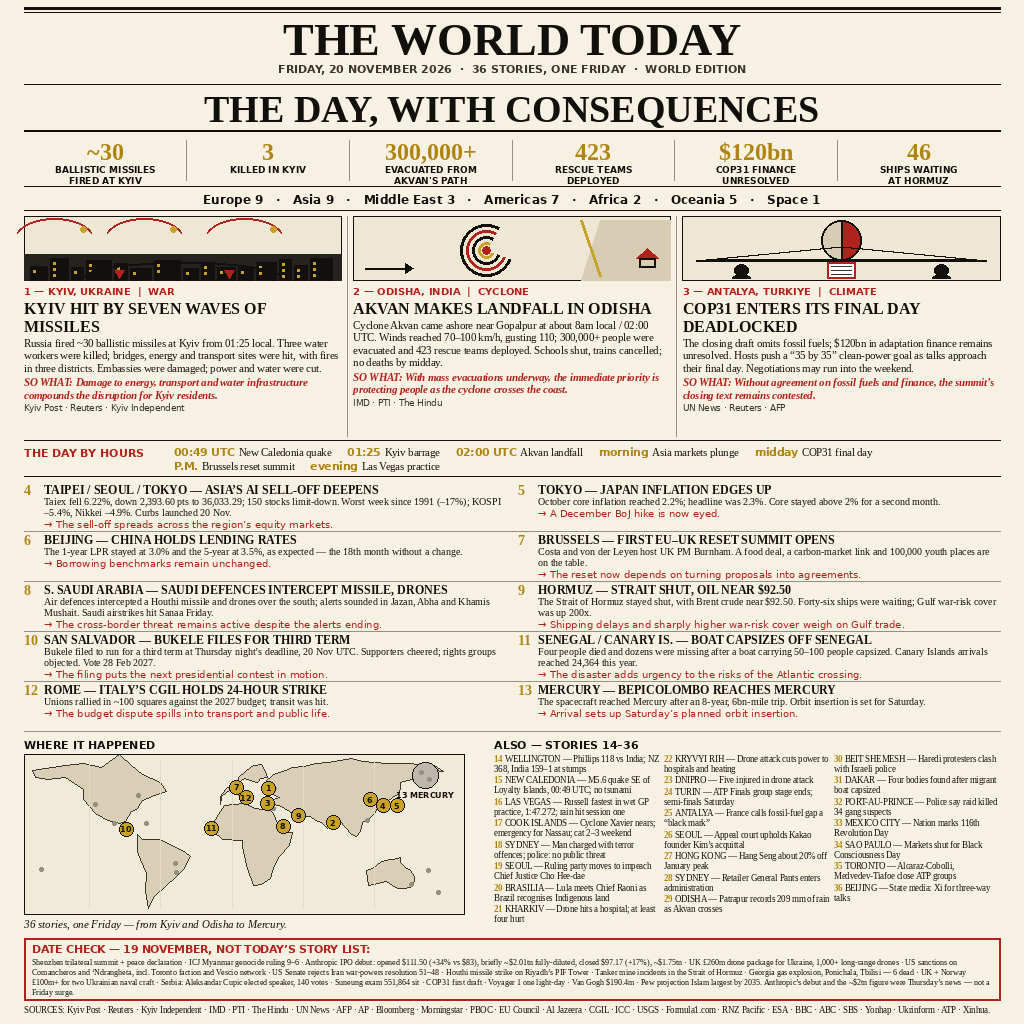
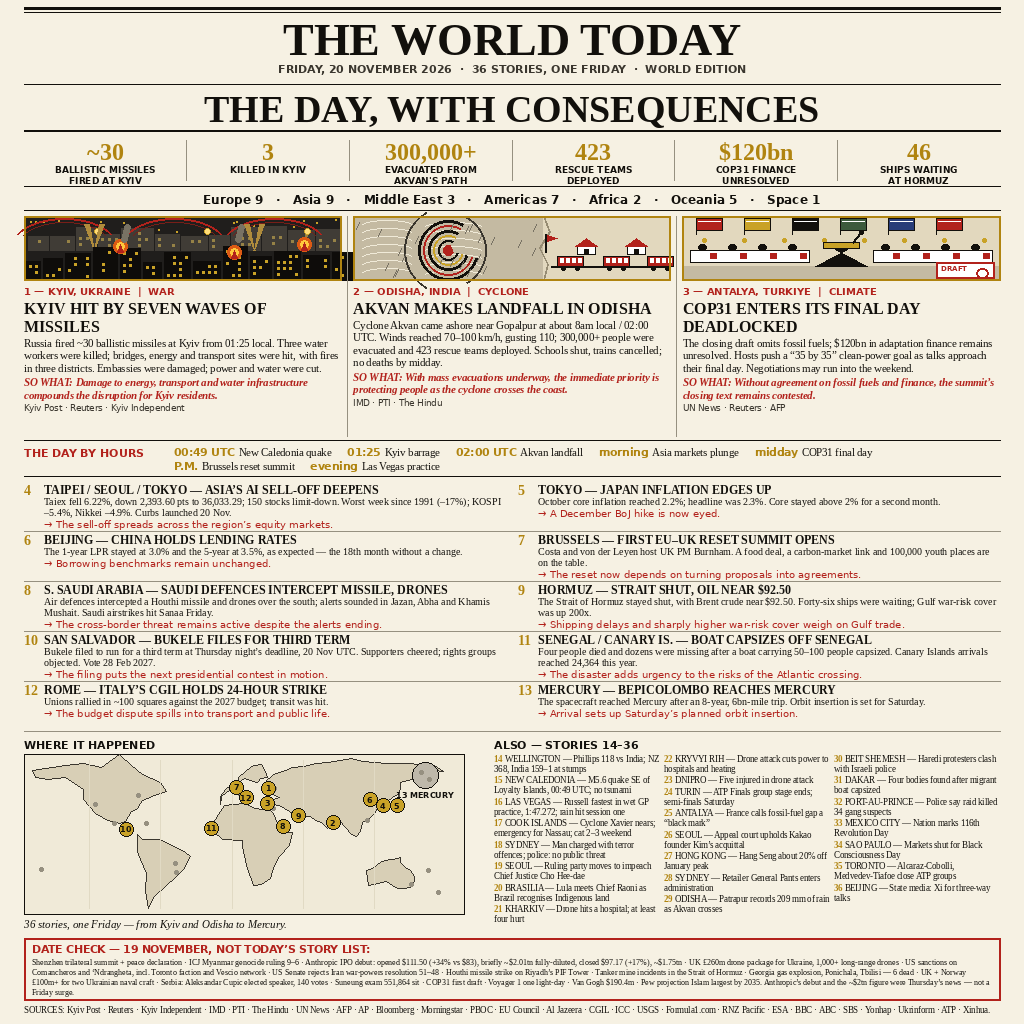
V1 rev1: richer lead illustrations + gold band frames

Changed region(s): [[0.0, 0.1875, 1.0, 0.2812]]

diff --git a/render.py b/render.py
@@ -130,48 +130,112 @@ for i, L in enumerate(LEADS):
     iy0, iy1 = LX0, LX0 + 64
     d.rectangle([x0, iy0, x1, iy1], fill=PAPER2, outline=INK, width=1)
     if L["n"] == 1:
-        d.rectangle([x0, iy1 - 26, x1, iy1], fill=(38, 34, 30))
-        rnd = random.Random(7)
-        bx = x0 + 6
-        while bx < x1 - 10:
-            bw = rnd.randint(12, 26)
-            bh = rnd.randint(12, 24)
-            d.rectangle([bx, iy1 - bh, bx + bw, iy1], fill=(18, 16, 12))
+        # --- Kyiv: night skyline under missile attack (rich, layered) ---
+        d.rectangle([x0, iy0, x1, iy1], fill=(32, 30, 28))
+        rnd = random.Random(11)
+        for _ in range(26):
+            sx = rnd.randint(int(x0) + 4, int(x1) - 4)
+            sy = rnd.randint(iy0 + 3, iy0 + 18)
+            d.ellipse([sx, sy, sx + 1, sy + 1], fill=GOLD_BG)
+        fx = x0 + 4
+        while fx < x1 - 8:
+            fw = rnd.randint(18, 34)
+            fh = rnd.randint(14, 26)
+            d.rectangle([fx, iy1 - 30 - fh, fx + fw, iy1 - 30], fill=(64, 60, 54))
+            for wy in range(iy1 - 30 - fh + 4, iy1 - 34, 6):
+                for wx in range(int(fx) + 3, int(fx) + fw - 3, 7):
+                    if rnd.random() < 0.4:
+                        d.rectangle([wx, wy, wx + 2, wy + 2], fill=(150, 130, 70))
+            fx += fw + 2
+        for tx in (x0 + 40, x0 + 150, x0 + 250):
+            d.arc([tx - 52, iy0 + 2, tx + 52, iy0 + 58], 205, 335, fill=(178, 34, 28), width=2)
+            d.arc([tx - 46, iy0 + 6, tx + 46, iy0 + 54], 205, 335, fill=(120, 30, 24), width=1)
+            d.ellipse([tx + 30, iy0 + 12, tx + 36, iy0 + 18], fill=GOLD_BG)
+            d.ellipse([tx + 31, iy0 + 13, tx + 35, iy0 + 17], fill=(255, 220, 120))
+        for bx in (x0 + 70, x0 + 230):
+            d.polygon([(bx, iy1 - 30), (bx - 10, iy0 + 8), (bx - 5, iy0 + 8)], fill=(176, 140, 60))
+            d.polygon([(bx, iy1 - 30), (bx + 10, iy0 + 8), (bx + 5, iy0 + 8)], fill=(176, 140, 60))
+        bx = x0 + 2
+        while bx < x1 - 8:
+            bw = rnd.randint(14, 28)
+            bh = rnd.randint(18, 34)
+            d.rectangle([bx, iy1 - bh, bx + bw, iy1], fill=(14, 12, 10))
             for wy in range(iy1 - bh + 4, iy1 - 4, 6):
-                d.rectangle([bx + 3, wy, bx + 5, wy + 2], fill=GOLD_BG)
+                for wx in range(int(bx) + 3, int(bx) + bw - 3, 6):
+                    if rnd.random() < 0.55:
+                        d.rectangle([wx, wy, wx + 2, wy + 2], fill=GOLD_BG)
             bx += bw + 3
-        for tx in (x0 + 30, x0 + 120, x0 + 220):
-            d.arc([tx - 40, iy0 + 2, tx + 40, iy0 + 46], 200, 340, fill=RED, width=2)
-            d.ellipse([tx + 26, iy0 + 10, tx + 32, iy0 + 16], fill=GOLD_BG)
-        d.arc([x0 + 60, iy1 - 18, x1 - 60, iy1 + 12], 180, 360, fill=INK, width=2)
-        for fx in (x0 + 90, x0 + 200):
-            d.polygon([(fx, iy1 - 10), (fx + 5, iy1 - 2), (fx + 10, iy1 - 10)], fill=RED)
+        for ex, ey in ((x0 + 96, iy1 - 34), (x0 + 210, iy1 - 28), (x0 + 280, iy1 - 36)):
+            d.ellipse([ex - 7, ey - 7, ex + 7, ey + 7], fill=(220, 90, 20))
+            d.ellipse([ex - 4, ey - 4, ex + 4, ey + 4], fill=(255, 200, 60))
+            d.polygon([(ex - 3, ey + 6), (ex, ey - 2), (ex + 3, ey + 6)], fill=RED)
+        for sx in (x0 + 100, x0 + 214):
+            for k in range(4):
+                d.ellipse([sx - 3 + k, iy1 - 44 - k * 4, sx + 3 + k, iy1 - 38 - k * 4], fill=(120, 114, 100))
     elif L["n"] == 2:
-        cx, cy = x0 + col_w * 0.42, iy0 + 34
-        for r, col in ((26, INK), (20, RED), (14, INK), (8, GOLD_BG)):
-            d.arc([cx - r, cy - r, cx + r, cy + r], 20, 300, fill=col, width=3)
+        # --- Akvan: cyclone spiral over coastline (rich, layered) ---
+        sea_x = x0 + int(col_w * 0.60)
+        d.rectangle([x0, iy0, sea_x, iy1], fill=(196, 186, 162))
+        d.rectangle([sea_x, iy0, x1, iy1], fill=(226, 216, 190))
+        d.line([(sea_x, iy0), (sea_x + 6, iy0 + 16), (sea_x - 4, iy0 + 32), (sea_x + 4, iy0 + 48), (sea_x, iy1)],
+               fill=(150, 140, 115), width=2)
+        for wy in range(iy0 + 10, iy1 - 4, 8):
+            d.arc([x0 + 8, wy - 6, x0 + 60, wy + 6], 200, 340, fill=(240, 234, 216), width=1)
+            d.arc([x0 + 70, wy - 4, x0 + 130, wy + 8], 200, 340, fill=(240, 234, 216), width=1)
+        cx, cy = x0 + col_w * 0.30, iy0 + 34
+        for r, col, w in ((30, INK, 3), (25, RED, 2), (20, INK, 3), (15, GOLD_BG, 2), (10, INK, 2), (5, RED, 2)):
+            d.arc([cx - r, cy - r, cx + r, cy + r], 15, 300, fill=col, width=w)
         d.ellipse([cx - 4, cy - 4, cx + 4, cy + 4], fill=RED)
-        d.polygon([(x0 + col_w * 0.78, iy0 + 4), (x1, iy0 + 4), (x1, iy1), (x0 + col_w * 0.72, iy1)], fill=(214, 205, 180))
-        d.line([(x0 + col_w * 0.72, iy0 + 4), (x0 + col_w * 0.78, iy1 - 4)], fill=GOLD_BG, width=3)
-        d.line([(x0 + 12, iy1 - 12), (x0 + 52, iy1 - 12)], fill=INK, width=2)
-        d.polygon([(x0 + 52, iy1 - 17), (x0 + 52, iy1 - 7), (x0 + 60, iy1 - 12)], fill=INK)
-        sx, sy = x0 + col_w - 34, iy1 - 22
-        d.polygon([(sx, sy), (sx + 22, sy), (sx + 11, sy - 10)], fill=RED)
-        d.rectangle([sx + 3, sy, sx + 19, sy + 9], outline=INK, width=2)
+        d.arc([cx - 38, cy - 38, cx + 38, cy + 38], 300, 60, fill=INK2, width=2)
+        d.arc([cx - 44, cy - 44, cx + 44, cy + 44], 120, 240, fill=INK2, width=2)
+        rnd2 = random.Random(21)
+        for _ in range(22):
+            rx = rnd2.randint(int(x0) + 6, int(sea_x) - 4)
+            ry = rnd2.randint(iy0 + 6, iy1 - 10)
+            d.line([(rx, ry), (rx - 3, ry + 7)], fill=(120, 114, 100), width=1)
+        d.line([(sea_x + 8, iy1 - 14), (x1 - 6, iy1 - 14)], fill=INK, width=2)
+        for bx in (sea_x + 14, sea_x + 60, sea_x + 104):
+            d.rectangle([bx, iy1 - 24, bx + 26, iy1 - 14], fill=RED, outline=INK, width=1)
+            for wx in range(int(bx) + 3, int(bx) + 24, 6):
+                d.rectangle([wx, iy1 - 22, wx + 3, iy1 - 18], fill=(255, 255, 255))
+            d.ellipse([bx + 4, iy1 - 14, bx + 8, iy1 - 10], fill=INK)
+            d.ellipse([bx + 18, iy1 - 14, bx + 22, iy1 - 10], fill=INK)
+        px, py = sea_x + 2, iy0 + 30
+        d.polygon([(px, py - 12), (px + 12, py - 8), (px, py - 4)], fill=RED)
+        d.line([(px, py - 12), (px, py + 6)], fill=INK, width=2)
+        for hx in (sea_x + 34, sea_x + 84):
+            d.rectangle([hx, iy1 - 34, hx + 18, iy1 - 26], outline=INK, width=1, fill=(255, 255, 255))
+            d.polygon([(hx - 2, iy1 - 34), (hx + 9, iy1 - 42), (hx + 20, iy1 - 34)], fill=RED)
+            d.rectangle([hx + 7, iy1 - 31, hx + 11, iy1 - 26], fill=INK)
     else:
-        gx, gy = x0 + col_w / 2, iy0 + 24
-        d.ellipse([gx - 20, gy - 20, gx + 20, gy + 20], outline=INK, width=2, fill=(214, 205, 180))
-        d.pieslice([gx - 20, gy - 20, gx + 20, gy + 20], 270, 90, fill=RED)
-        d.line([(gx, gy - 20), (gx, gy + 20)], fill=INK, width=2)
-        d.arc([gx - 20, gy - 20, gx + 20, gy + 20], 0, 360, fill=INK, width=2)
-        d.polygon([(x0 + 14, iy1 - 20), (x0 + col_w / 2, iy1 - 34), (x1 - 14, iy1 - 20)], outline=INK, width=2)
-        d.line([(x0 + 14, iy1 - 20), (x1 - 14, iy1 - 20)], fill=INK, width=2)
-        for dx in (x0 + 52, x1 - 66):
-            d.ellipse([dx, iy1 - 16, dx + 14, iy1 - 4], fill=INK)
-            d.pieslice([dx - 2, iy1 - 6, dx + 16, iy1 + 2], 180, 360, fill=INK)
-        d.rectangle([x0 + col_w / 2 - 14, iy1 - 18, x0 + col_w / 2 + 14, iy1 - 2], fill=(255, 255, 255), outline=RED, width=2)
-        for ly in (iy1 - 14, iy1 - 10, iy1 - 6):
-            d.line([(x0 + col_w / 2 - 10, ly), (x0 + col_w / 2 + 10, ly)], fill=INK2, width=1)
+        # --- COP31: negotiation hall (rich, layered) ---
+        d.rectangle([x0, iy0, x1, iy1], fill=(226, 216, 190))
+        d.rectangle([x0, iy1 - 14, x1, iy1], fill=(196, 186, 162))
+        flag_cols = [RED, GOLD_BG, INK, (60, 90, 60), (40, 60, 120), RED]
+        for i, fc in enumerate(flag_cols):
+            fx = x0 + 14 + i * 48
+            d.line([(fx, iy0 + 2), (fx, iy0 + 18)], fill=INK, width=1)
+            d.rectangle([fx, iy0 + 2, fx + 26, iy0 + 14], fill=fc, outline=INK, width=1)
+            d.line([(fx + 2, iy0 + 5), (fx + 24, iy0 + 5)], fill=(255, 255, 255), width=1)
+        for lx in range(int(x0) + 20, int(x1) - 10, 40):
+            d.ellipse([lx, iy0 + 22, lx + 4, iy0 + 26], fill=GOLD_BG)
+        px = x0 + col_w / 2
+        for tx0, tx1 in ((x0 + 8, px - 32), (px + 32, x1 - 8)):
+            d.rectangle([tx0, iy0 + 34, tx1, iy0 + 46], fill=(255, 255, 255), outline=INK, width=1)
+            for dx in range(int(tx0) + 12, int(tx1) - 6, 30):
+                d.ellipse([dx - 4, iy0 + 28, dx + 4, iy0 + 34], fill=INK)
+                d.rectangle([dx + 8, iy0 + 37, dx + 14, iy0 + 42], fill=RED)
+        d.polygon([(px - 26, iy1 - 14), (px + 26, iy1 - 14), (px - 16, iy0 + 28), (px + 16, iy0 + 28)], fill=INK)
+        d.rectangle([px - 18, iy0 + 26, px + 18, iy0 + 32], fill=GOLD_BG, outline=INK, width=1)
+        d.line([(px + 12, iy0 + 26), (px + 20, iy0 + 16)], fill=INK, width=2)
+        d.ellipse([px + 18, iy0 + 14, px + 22, iy0 + 18], fill=INK)
+        dx0, dy0 = x1 - 64, iy0 + 46
+        d.rectangle([dx0, dy0, dx0 + 58, iy1 - 2], fill=(255, 255, 255), outline=RED, width=2)
+        d.text((dx0 + 5, dy0 + 2), "DRAFT", font=font(SANS_B, 7), fill=RED)
+        for ly in range(dy0 + 12, iy1 - 6, 4):
+            d.line([(dx0 + 5, ly), (dx0 + 52, ly)], fill=INK2, width=1)
+        d.ellipse([dx0 + 40, iy1 - 12, dx0 + 52, iy1 - 2], outline=RED, width=2)
+    d.rectangle([x0, iy0, x1, iy1], outline=GOLD, width=2)
     yy = iy1 + 5
     d.text((x0, yy), f"{L['n']} — {L['kick']}", font=font(SANS_B, 10), fill=RED)
     yy += 14
